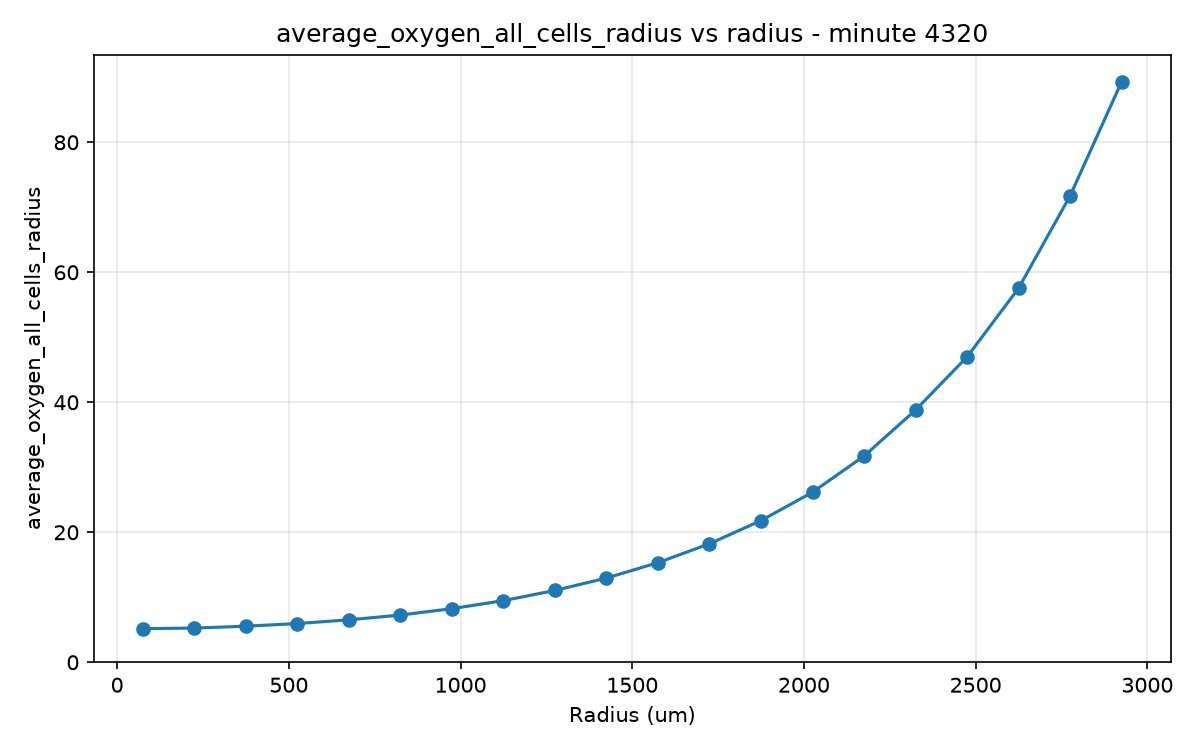
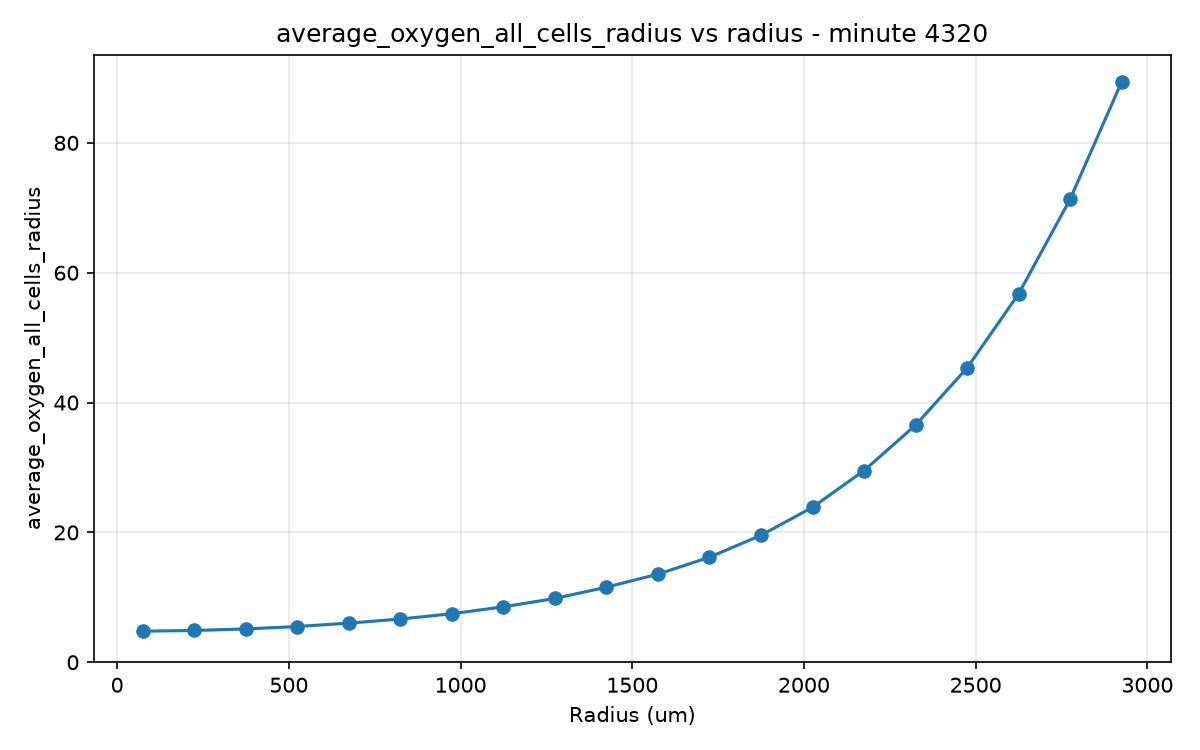
new parameters for model replication under hypoxia

diff --git a/abm_calibration/optimize.py b/abm_calibration/optimize.py
@@ -29,12 +29,12 @@ import optuna
 import pandas as pd
 
 # Change this: File Parameters for the desired experiment
-EXPERIMENT_ID = 16
+EXPERIMENT_ID = 25
 SEED = 42
 # You can set the number of trials to 0 to skip the optimization and just load the best result from the database
 NUMBER_OF_TRIALS = 1000000
 # Number of Monte Carlo simulations to run for each trial. Use one for an aproximation of the error with a single montecarlo run
-NUMBER_MONTE_CARLO = 1
+NUMBER_MONTE_CARLO = 2
 # BioDynaMo directory to execute the comand source thisbdm.sh, you can change it to your own path
 BIODYNAMO_DIR = " /home/usuario/Desktop/biodynamo/build/bin/thisbdm.sh"
 
@@ -65,6 +65,9 @@ def run_ABM(params, seed):
     # oxygen_limit_for_proliferation = params[
     #     "oxygen_limit_for_proliferation"
     # ]
+    maximum_necrosis_rate = params[
+        "maximum_necrosis_rate"
+    ]
     oxygen_saturation_for_proliferation = params[
         "oxygen_saturation_for_proliferation"
     ]
@@ -97,15 +100,16 @@ def run_ABM(params, seed):
         "treatment": {
             "0": 0
         },
-        "average_time_transformation_random_rate": 72.,
+        "average_time_transformation_random_rate": 72.0,
         "standard_deviation_transformation_random_rate": 15.0,
         "oxygen_saturation_for_proliferation": oxygen_saturation_for_proliferation,
         "oxygen_limit_for_proliferation": 5.9,
         "oxygen_limit_for_necrosis_maximum": 0.0,
-        "oxygen_limit_for_necrosis": 0.0,
+        "oxygen_limit_for_necrosis": 45.0,
+        "maximum_necrosis_rate": maximum_necrosis_rate,
         "reduction_consumption_dead_cells": 0.0,
-        "basal_necrosis_probability_cancer_cells": 0.0000031,
-        "nutrient_starvation_factor_cancer_cells": 1.000602
+        "basal_necrosis_probability_cancer_cells": 0.0000166,
+        "nutrient_starvation_factor_cancer_cells": 1.00
         }
     # Save the config parameters for the run to the params.json file
     with open(PARAMS_PATH, "w") as f:
@@ -173,13 +177,13 @@ def compute_error():
 
    # take the value at the minute 4320 for the number of dead tumor cells in the simulation data
     row = df_s[df_s["total_minutes"] == 4320].iloc[0]
-    # tumor_cells_type5_dead_4320 = row["tumor_cells_type5_dead"]
-    target_tumor_cells_type5_dead_4320 = 2066
+    tumor_cells_type5_dead_4320 = row["tumor_cells_type5_dead"]
+    target_tumor_cells_type5_dead_4320 = 2870
     total_tumor_cells_4320 = row["num_tumor_cells"]
     target_total_tumor_cells_4320 = 38266
 
     # Compute absolute errors
-    error_total_tumor_cells = abs(total_tumor_cells_4320 - target_total_tumor_cells_4320)
+    error_total_tumor_cells = abs(tumor_cells_type5_dead_4320 - target_tumor_cells_type5_dead_4320) + abs(total_tumor_cells_4320 - target_total_tumor_cells_4320)
 
     return float(error_total_tumor_cells)
 
@@ -306,7 +310,8 @@ def objective(trial):
     # Change this: Define the parameters to be optimized and their ranges
     params = {
         # "oxygen_limit_for_proliferation": trial.suggest_float("oxygen_limit_for_proliferation", 0.0, 40, step=0.1),
-        "oxygen_saturation_for_proliferation": trial.suggest_float("oxygen_saturation_for_proliferation", 6.5, 44, step=0.1),
+        "maximum_necrosis_rate": trial.suggest_float("maximum_necrosis_rate", 0.00002, 0.000022, step=0.0000004),
+        "oxygen_saturation_for_proliferation": trial.suggest_float("oxygen_saturation_for_proliferation", 13.64, 13.76, step=0.02),
         # "nutrient_starvation_factor_cancer_cells": trial.suggest_float("nutrient_starvation_factor_cancer_cells", 1.000501, 1.000609, step=0.000001),
     }
 

diff --git a/draft/analysis_radius_atribute.py b/draft/analysis_radius_atribute.py
@@ -32,13 +32,13 @@ import matplotlib.pyplot as plt
 CSV_PATH = "./output/data_dependent_on_radius_tumor.csv"
 MINUTE = 4320 # change this to the minute you want to plot
 # MINUTE = 4320 # change this to the minute you want to plot
-ATTRIBUTE = "average_oxygen_all_cells_radius"  # change this to the attribute you want to plot
-# ATTRIBUTE = "tumor_cells_type5_dead_radius"  # change this to the attribute you want to plot
+# ATTRIBUTE = "average_oxygen_all_cells_radius"  # change this to the attribute you want to plot
+ATTRIBUTE = "tumor_cells_type5_dead_radius"  # change this to the attribute you want to plot
 # DIVIDING_FACTOR = 585  # change this to the factor you want to divide by. Use 525 to pass from mmHg to mol/m3
 DIVIDING_FACTOR = 1  # change this to the factor you want to divide by. Use 525 to pass from mmHg to mol/m3
 # other examples: "average_oncoprotein_radius", "average_oxygen_cancer_cells_radius",
 # "num_alive_cells_radius", "num_alive_tumor_cells_radius", etc.
-APPLY_RADIAL_NORMALIZATION = False  # change this to True if you want to apply radial normalization to the attribute
+APPLY_RADIAL_NORMALIZATION = True  # change this to True if you want to apply radial normalization to the attribute
 # APPLY_RADIAL_NORMALIZATION = True  # change this to True if you want to apply radial normalization to the attribute
 Y_MIN = 0
 Y_MAX = None

diff --git a/draft/experimentation.py b/draft/experimentation.py
@@ -65,15 +65,15 @@ def run_ABM(seed):
         "decay_constant_oxygen": 0.01,
         "time_apoptosis": 6000.0,
         "treatment": {"0": 0},
-        "average_time_transformation_random_rate": 72,
+        "average_time_transformation_random_rate": 72.0,
         "standard_deviation_transformation_random_rate": 15.0,
-        "oxygen_saturation_for_proliferation": 0.0,
-        "oxygen_limit_for_proliferation": 0.0,
+        "oxygen_saturation_for_proliferation": 0,
+        "oxygen_limit_for_proliferation": 0,
         "oxygen_limit_for_necrosis_maximum": 0.0,
         "oxygen_limit_for_necrosis": 0.0,
         "reduction_consumption_dead_cells": 0.0,
-        "basal_necrosis_probability_cancer_cells": 0.0000031,
-        "nutrient_starvation_factor_cancer_cells": 1.000602,
+        "basal_necrosis_probability_cancer_cells": 0.0000166,
+        "nutrient_starvation_factor_cancer_cells": 1.00,
         "dt_substances": 4320
     }
 
@@ -106,7 +106,7 @@ def run_multiple_seeds(N):
     DRAFT_DIR.mkdir(parents=True, exist_ok=True)
 
     # for seed in range(N):
-    for seed in[4,5,6,7,8,9]:
+    for seed in range(N):
         print(f"--- Running ABM with seed={seed} ---")
         run_ABM(seed)
         copy_output_to_draft(seed)

diff --git a/draft/generatecsv.py b/draft/generatecsv.py
@@ -28,7 +28,7 @@ import numpy as np
 import optuna
 import pandas as pd
 # Change this: File Parameters for the desired experiment
-EXPERIMENT_ID = 16
+EXPERIMENT_ID = 25
 SEED = 42
 # BioDynaMo directory to execute the comand source thisbdm.sh, you can change it to your own path
 BIODYNAMO_DIR = " /home/usuario/Desktop/biodynamo/build/bin/thisbdm.sh"
